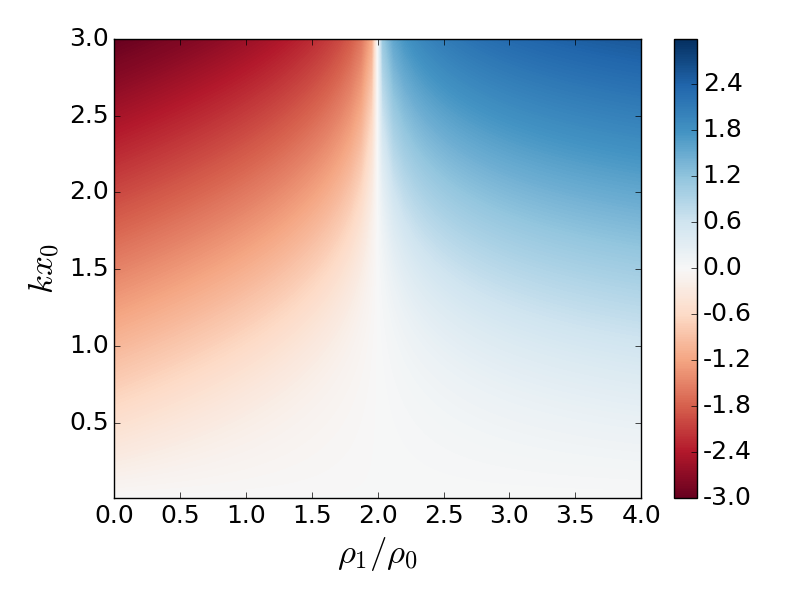
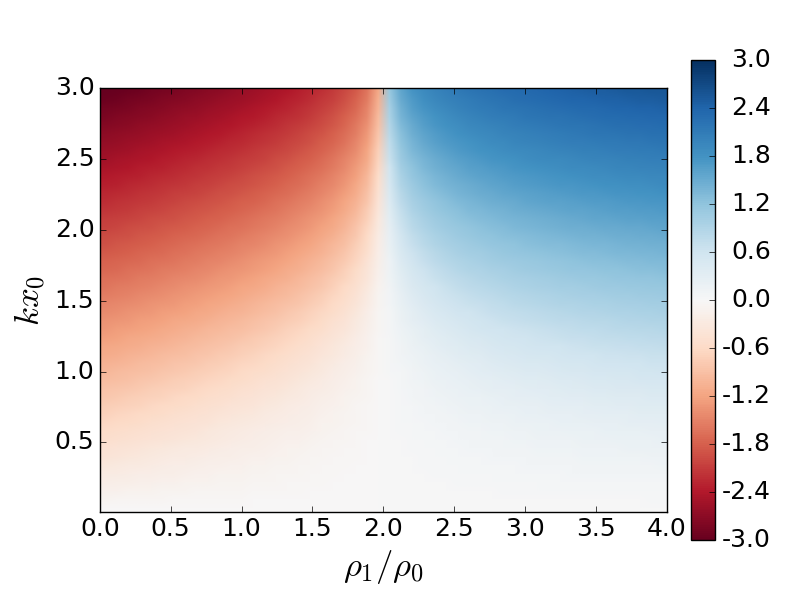
I have no idea how to set aspect ratio properly for imshow, damn you Drew

diff --git a/sms.py b/sms.py
@@ -12,6 +12,7 @@ from functools import partial
 import matplotlib.pyplot as plt
 import matplotlib
 import matplotlib.patches as patches
+from mpl_toolkits.axes_grid1 import make_axes_locatable
 
 # SBS
 # Define the sound speeds and alfven speeds.
@@ -34,7 +35,7 @@ for mode in mode_options:
     if 'saus' in mode:
         saus_mode_options.append(mode)
 
-mode = mode_options[3]
+mode = mode_options[0]
 
 #plot_variable = 'amp-ratio'
 plot_variable = 'min-pert-shift'
@@ -125,8 +126,8 @@ def trans(R1):
 # Set up the data
 
 #number of iternations in R1 and K
-NR1 = 500 #100
-NK = 500 #400 for fast kink surf? #100
+NR1 = 50 #100
+NK = 50 #400 for fast kink surf? #100
 
 Kmax1 = 8. #5.
 R1max1 = 4.
@@ -214,52 +215,67 @@ font = {'family' : 'normal',
 
 matplotlib.rc('font', **font)
 
-def levels(data,plot_variable,n):
+def clim(data,plot_variable):
     min_level = np.floor(np.nanmin(data))
     max_level = np.ceil(np.nanmax(data))
     largest = max(abs(max_level),abs(min_level))
     if plot_variable == 'amp-ratio':
         if 'kink' in mode:
-            return np.linspace(2 - max_level, max_level, n)
+            return [2 - max_level, max_level]
         if 'saus' in mode:
-            return np.linspace(min_level, -2 - min_level, n)
+            return [min_level, -2 - min_level]
     elif plot_variable == 'min-pert-shift':
-        return np.linspace(-largest, largest, n)
+        return [-largest, largest]
     elif plot_variable == 'W':
-        return np.linspace(np.nanmin(data), np.nanmax(data), n)
+        return [np.nanmin(data), np.nanmax(data)]
 
-#plt.imshow(data_set, cmap='coolwarm', origin='lower', interpolation='nearest')
 
 fig = plt.figure()
-
-contour = plt.contourf(Y, X, data_set, levels=levels(data_set,plot_variable,1000), 
-                       cmap='RdBu')
-plt.xlabel(r'$\rho_1/\rho_0$', fontsize=25)
-plt.ylabel(r'$kx_0$', fontsize=25)
-if mode == 'fast-kink-surf':
-    plt.ylim([4.,Kmax])
-#ax.xaxis.tick_top()
-#ax.xaxis.set_label_position('top') 
-
-# get data you will need to create a "background patch" to your plot
-width = R1max - R1min
-height = Kmax - Kmin
-
-ax = plt.gca()
-rect = ax.patch
-rect.set_facecolor((0.9,0.9,0.9))
-#p = patches.Rectangle((R1min, Kmin), width, height, hatch='//', fill=None, zorder=-5)
-#ax.add_patch(p)
-
+aspect = 1#(R1vals[-1] - R1vals[0])/(Kvals[-1] - Kvals[0])# * 0.5
+im = plt.imshow(data_set.transpose(), cmap='RdBu', origin='lower', clim=clim(data_set,plot_variable), 
+                aspect=aspect, extent=[R1vals[0],R1vals[-1],Kvals[0],Kvals[-1]])
 
 def fmt(x, pos):
     a = '{:.1f}'.format(x)
     return a
-cbar = plt.colorbar(format=matplotlib.ticker.FuncFormatter(fmt))
 #cbar.ax.set_yticklabels(['{:.0f}'.format(x) for x in np.arange(cbar_min, cbar_max+cbar_step, cbar_step)])
-plt.tight_layout()
-plt.show()
+cb = plt.colorbar(im, fraction=0.046*aspect, pad=0.04, 
+                  format=matplotlib.ticker.FuncFormatter(fmt))
 
+
+plt.xlabel(r'$\rho_1/\rho_0$', fontsize=25)
+plt.ylabel(r'$kx_0$', fontsize=25)
+if mode == 'fast-kink-surf':
+    plt.ylim([4.,Kmax])
+##ax.xaxis.tick_top()
+##ax.xaxis.set_label_position('top') 
+#
+# get data you will need to create a "background patch" to your plot
+width = R1max - R1min
+height = Kmax - Kmin
+
+# set background colour - NaNs have this colour
+ax = plt.gca()
+rect = ax.patch
+rect.set_facecolor((0.9,0.9,0.9))
+
+def pad(data):
+    ppad = 38
+    mpad = 40
+    size_bool = np.where(data < 0)[0].size == 0
+    if size_bool:
+        p = ppad
+    else:
+        p = mpad
+    return p
+        
+ticklabs = cb.ax.get_yticklabels()
+cb.ax.set_yticklabels(ticklabs,ha='right')
+cb.ax.yaxis.set_tick_params(pad=pad(data_set))  # your number may vary
+
+#plt.tight_layout()
+plt.show()
+#
 filename = mode + '_' + plot_variable
 plt.savefig('D:\\my_work\\projects\\Asymmetric_slab\\Python\\sms\\sms-plots\\' 
             + filename)
